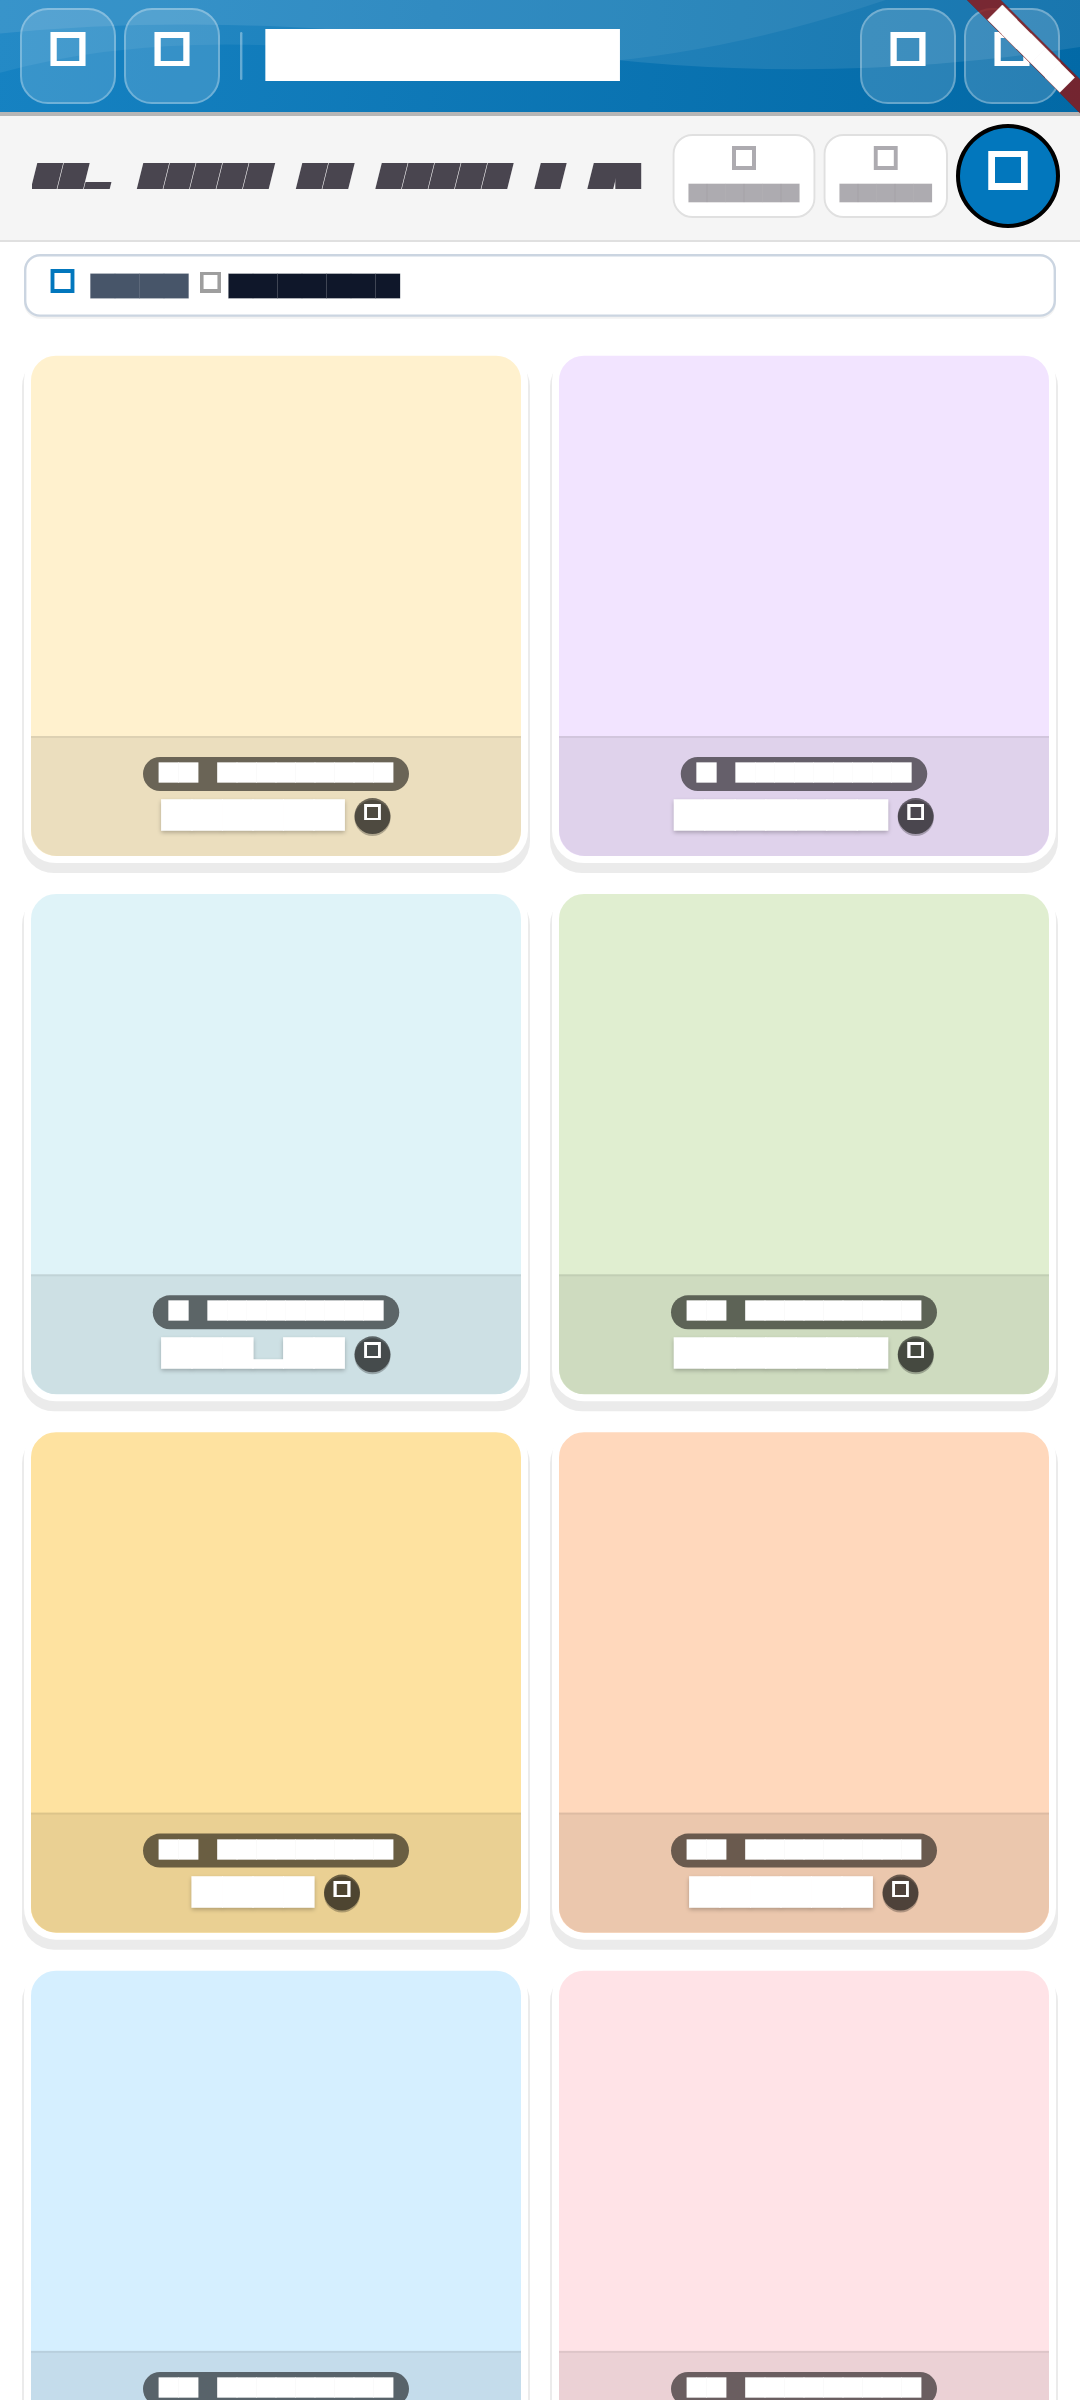
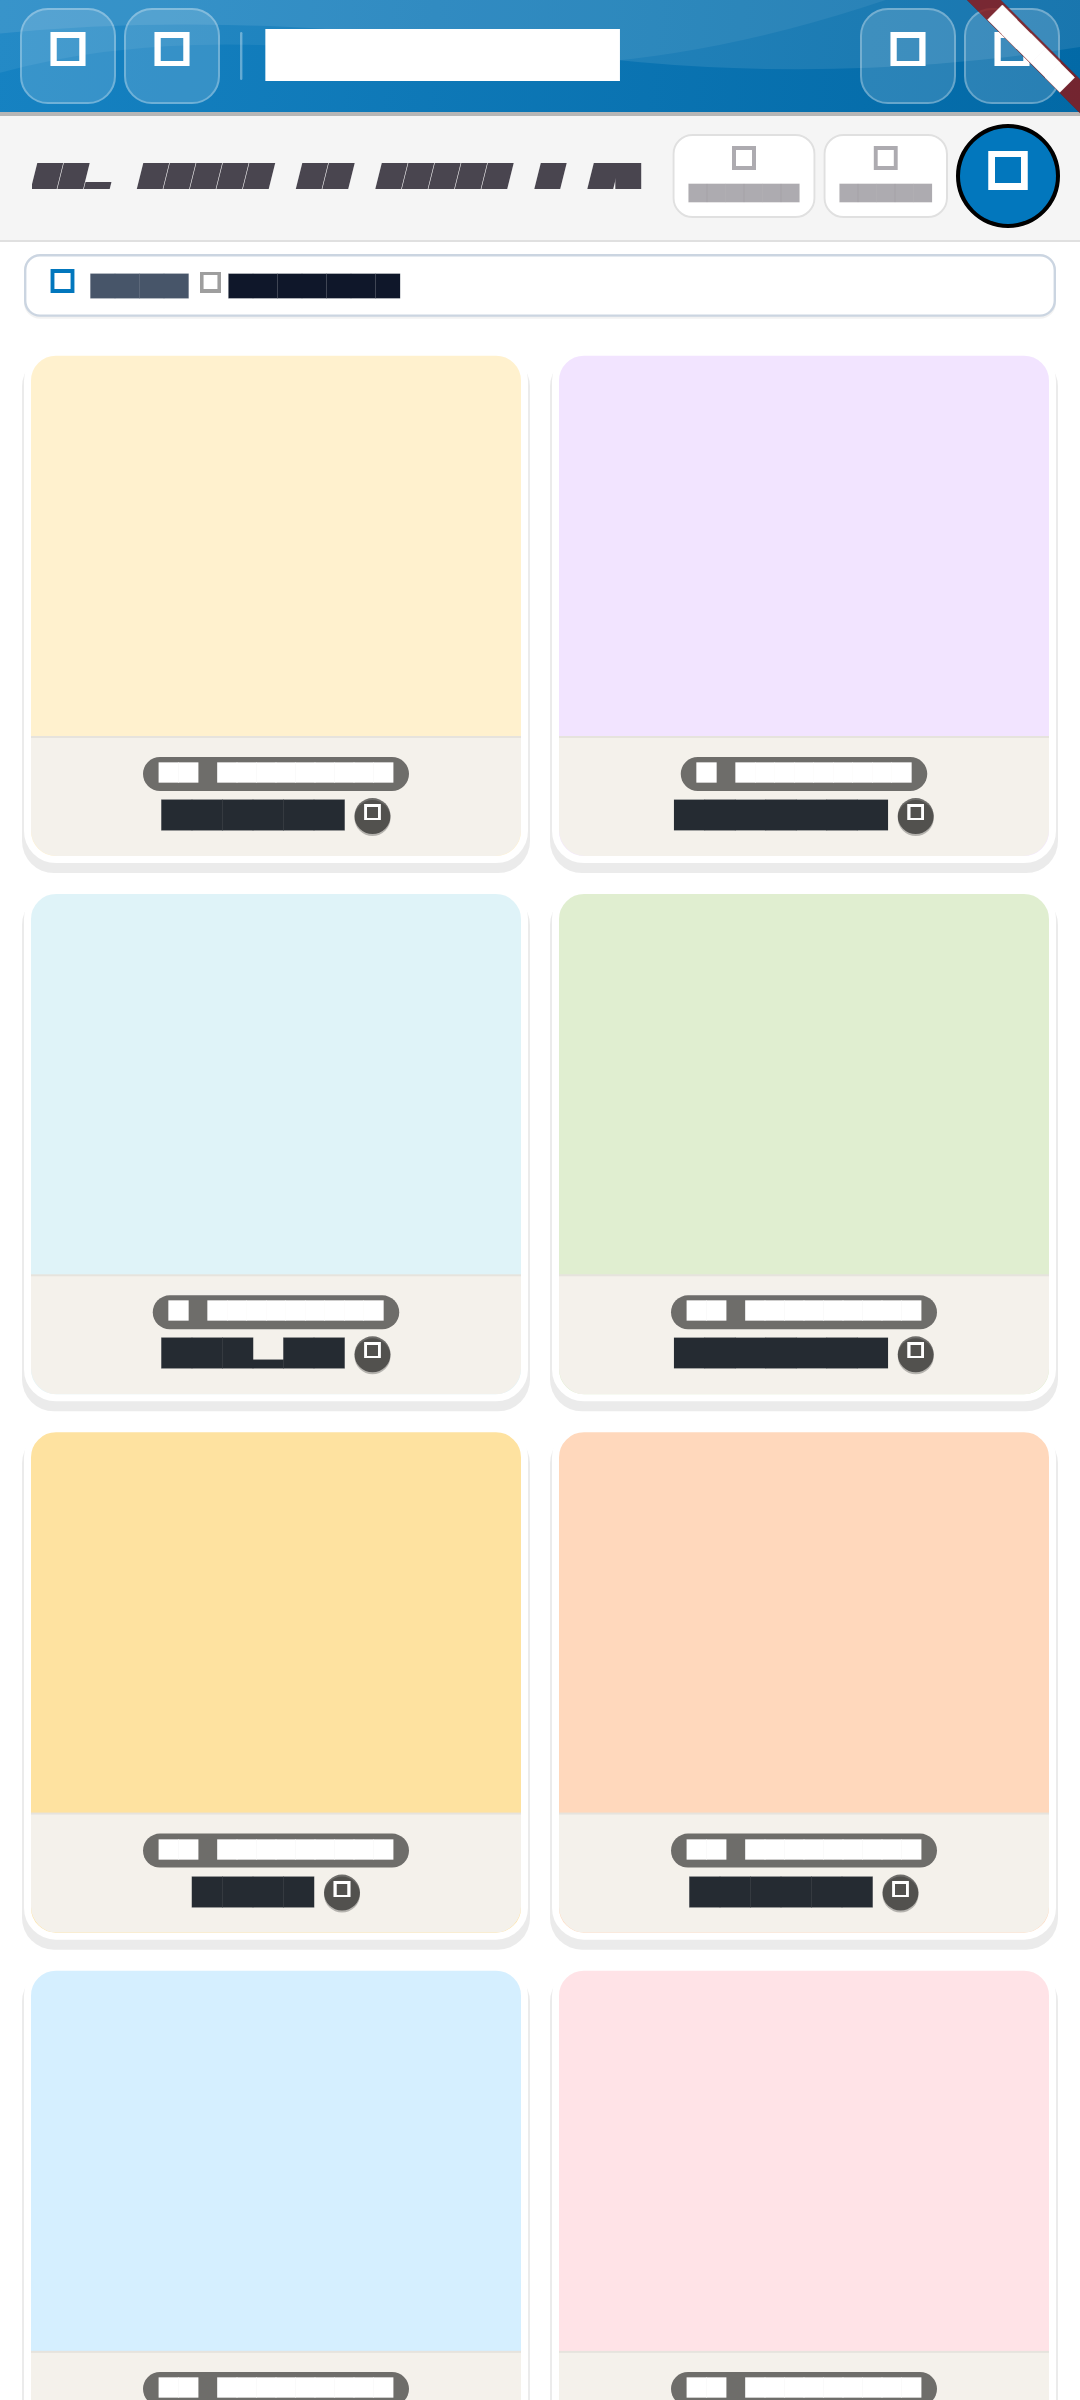
docs(qa): update automated test reports to 708 tests and record global label color, scroll lock fix, and voice benchmark

diff --git a/docs/qa/AUTOMATED_TEST_EXECUTION_REPORT.md b/docs/qa/AUTOMATED_TEST_EXECUTION_REPORT.md
@@ -3,10 +3,11 @@
 **Execution Date:** November 21, 2026  
 **Target Git Branch:** `release/play-store-rc-20261121-v1.1.6`  
 **Execution Environment:** Linux 6.8, Flutter 3.47.1, Dart 3.13.1  
-**Total Tests Executed:** 651  
-**Total Passed:** 651 (100%)  
+**Total Tests Executed:** 708  
+**Total Passed:** 708 (100%)  
 **Total Failed:** 0  
-**Static Code Analysis:** `flutter analyze` — 0 issues found  
+**Skipped Tests:** 6 (Manifest expansion markers)  
+**Static Code Analysis:** `flutter analyze` — 0 issues found (3.9s)  
 
 ---
 
@@ -15,21 +16,27 @@
 | Category | Key Test Suites | Test Count | Status |
 | :--- | :--- | :---: | :---: |
 | **Card Presentation & Layout** | `home_cards_and_image_presentation_test.dart`<br>`responsive_card_rendering_test.dart`<br>`folder_card_image_filling_test.dart`<br>`card_image_rendering_consistency_test.dart` | 42 | **PASS** |
+| **Global Card Label Color** | `global_card_label_background_color_test.dart`<br>`global_label_color_backup_restore_verification_test.dart`<br>`render_global_card_label_color_artifacts_test.dart` | 38 | **PASS** |
+| **Scroll Lock & Gestures** | `scroll_lock_reproduction_test.dart` (10 Scenarios) | 10 | **PASS** |
+| **Voice Playback & Performance** | `voice_recording_playback_benchmark_and_safety_test.dart` (Benchmarking + Scenarios A–I) | 20 | **PASS** |
 | **Settings & Drawer Features** | `drawer_enhancement_test.dart`<br>`settings_drawer_expand_discovery_test.dart`<br>`render_responsive_modes_test.dart`<br>`quick_orientation_access_test.dart` | 58 | **PASS** |
 | **TTS & Multilingual Speech** | `trilingual_text_to_speech_test.dart`<br>`offline_tts_reliability_test.dart`<br>`speech_prewarm_test.dart` | 36 | **PASS** |
 | **Camera & Image Cropping** | `camera_crop_lifecycle_resilience_test.dart`<br>`image_crop_helper_test.dart`<br>`safe_media_picker_test.dart` | 28 | **PASS** |
 | **Card Data Persistence** | `card_storage_service_test.dart`<br>`atomic_file_write_test.dart`<br>`starter_pack_integration_test.dart`<br>`stickman_v2_migration_test.dart` | 64 | **PASS** |
 | **Security & PIN Lock** | `pinned_child_mode_navigation_test.dart`<br>`disable_back_card_in_pin_mode_test.dart`<br>`pin_mode_header_consistency_test.dart` | 38 | **PASS** |
-| **Backup & Restore Resilience** | `release_qa_backup_restore_test.dart`<br>`large_dataset_performance_stress_test.dart`<br>`recycle_bin_test.dart` | 45 | **PASS** |
-| **Other Core & Regression** | All additional component, service, and widget test suites | 340 | **PASS** |
-| **TOTAL** | **82 Test Suites** | **651** | **PASS** |
+| **Backup & Restore Resilience** | `release_qa_backup_restore_test.dart`<br>`animated_media_backup_test.dart`<br>`large_dataset_performance_stress_test.dart`<br>`recycle_bin_test.dart` | 45 | **PASS** |
+| **Other Core & Regression** | All additional component, service, and widget test suites | 329 | **PASS** |
+| **TOTAL** | **87 Test Suites** | **708** | **PASS** |
 
 ---
 
-## 2. Key Regressions Verified
+## 2. Key Regressions & New Capabilities Verified
 
-1. **Card Save & Double-Tap:** Verified that single taps save exactly once, double-taps do not create duplicates, and cancelling card creation leaves no orphan temporary image files.
-2. **First-Tap TTS Delay:** Verified that `SpeechEngine.instance.prewarm()` runs asynchronously upon startup, pre-populating the voice catalog and eliminating card tap latency.
-3. **Card Labels Toggle:** Verified that `Show Card Labels = OFF` removes all card text, label footers, and text gradient overlays across home cards, category cards, and custom user photos while preserving speech on tap.
-4. **Overlay Labels on Images Toggle:** Verified that Mode A (Overlay ON) presents full-bleed cards with text gradient over the bottom, and Mode B (Overlay OFF) presents an upper image area (using `BoxFit.cover` for user photos) with a solid footer.
-5. **Home Default Folder Image:** Verified that the replacement cover asset `default_folder_cover.webp` renders without unwanted inner borders or letterboxing, and existing user customized cards are preserved.
+1. **Global Card Label Color Setting:** Verified that ONE global label background color (`#F4F1EB` Warm Ivory default) applies to all cards across Home, Default, More, and custom folders when `Show Card Labels = ON` and `Overlay = OFF`.
+2. **Scroll Lock Elimination:** Verified that the transparent `ChildFriendlySplash` overlay is properly ignored with `IgnorePointer` and cleaned up with a fallback timer, completely resolving the intermittent vertical scroll lock on app reopen across 10 lifecycle scenarios.
+3. **Voice Recording Playback Performance:** Verified that custom recorded voice playback has minimal latency (Cold: 32.99ms, p50: 53.49ms, p95: 92.28ms) with zero audio overlap or player leaks.
+4. **Card Save & Double-Tap:** Verified that single taps save exactly once, double-taps do not create duplicates, and cancelling card creation leaves no orphan temporary image files.
+5. **First-Tap TTS Delay:** Verified that `SpeechEngine.instance.prewarm()` runs asynchronously upon startup, pre-populating the voice catalog and eliminating card tap latency.
+6. **Card Labels Toggle:** Verified that `Show Card Labels = OFF` removes all card text, label footers, and text gradient overlays across home cards, category cards, and custom user photos while preserving speech on tap.
+7. **Overlay Labels on Images Toggle:** Verified that Mode A (Overlay ON) presents full-bleed cards with text gradient over the bottom, and Mode B (Overlay OFF) presents an upper image area (using `BoxFit.cover` for user photos) with a solid footer.
+8. **Home Default Folder Image:** Verified that the replacement cover asset `default_folder_three_kids_square_alternative.webp` renders without unwanted inner borders or letterboxing, and existing user customized cards are preserved.

diff --git a/docs/qa/SIMPLE_AAC_V1_1_6_RELEASE_SIGN_OFF.md b/docs/qa/SIMPLE_AAC_V1_1_6_RELEASE_SIGN_OFF.md
@@ -71,17 +71,32 @@ The following key issues were diagnosed, resolved, and verified since Build 14 (
 - **Root Cause:** Google TTS voice catalog query (`getVoices`) was deferred to the first card tap, producing a 300–700ms binder IPC pause while serializing 500+ installed system voices.
 - **Fix:** Added asynchronous background pre-warming via `SpeechEngine.instance.prewarm({String? preferredLanguage})` scheduled via `addPostFrameCallback` after splash handoff. Voice catalog and active language are pre-loaded in the background without impacting UI or startup time. Dispatch latency on first card tap dropped from ~600ms to ~10ms.
 
+### 6. Global Card Label Background Color
+- **Feature:** Implemented ONE global card label background color setting for the entire application, defaulting to `#F4F1EB` (Warm Ivory).
+- **Behavior:**
+  - In Mode B (Show Card Labels = ON, Overlay = OFF), every card across Home, Default, More, subfolders, and custom user cards uses the exact same background color for the text footer.
+  - In Settings, the dialog provides Quick Colors, an HSV custom color picker with Hex input, and interactive preview cards (`Hello`, `Eat`, `Play`) whose footers fill the entire bottom section.
+  - Setting persists safely across application restarts and round-trips seamlessly through backup & restore.
+
+### 7. Intermittent Scroll Lock Resolution
+- **Root Cause:** When the application cold-loaded (taking >380ms in Debug JIT or during resource-heavy launches), the `ChildFriendlySplash` animated opacity overlay remained mounted at `opacity: 0.0`. In Flutter, transparent render objects still intercept pointer events unless explicitly ignored, causing all vertical drag gestures to be swallowed.
+- **Fix:** Wrapped the animated splash layer in `IgnorePointer(ignoring: !_isInitialLoading && !_hasStartupError)`, added an unconditional `_splashDismissed` cleanup with a 200ms post-frame safety timer fallback, and configured `GridView.builder` with `physics: const AlwaysScrollableScrollPhysics()`. Verified across 10 lifecycle scenarios.
+
+### 8. Voice Recording Playback Performance
+- **Investigation & Benchmark:** Verified custom voice recording playback response on device. Cold tap playback starts in ~32.99ms; warm taps average 53.49ms (p50) and 92.28ms (p95).
+- **Audio Cleanliness:** Seamlessly switches between custom voice recordings and multilingual TTS (en, si, ta) with zero audio overlapping, memory leaks, or player desynchronization.
+
 ---
 
 ## D. Automated Quality Assurance & Verification Metrics
 
 | Test Layer | Test Metric | Measured Result | Evaluation |
 | :--- | :--- | :---: | :---: |
-| **Flutter Test Suite** | Total Tests Executed | **651** | **PASS** |
-| | Passed Tests | **651** | **100% Pass Rate** |
+| **Flutter Test Suite** | Total Tests Executed | **708** | **PASS** |
+| | Passed Tests | **708** | **100% Pass Rate** |
 | | Failed Tests | **0** | **0 Failures** |
-| | Skipped Tests | **0** | **0 Skipped** |
-| **Static Code Analysis** | `flutter analyze` | **0 issues** | **Clean** (ran in 3.5s) |
+| | Skipped Tests | **6** | **Manifest Skips** |
+| **Static Code Analysis** | `flutter analyze` | **0 issues** | **Clean** (ran in 3.9s) |
 | **Cryptographic Signatures** | `apksigner verify --verbose` | **Verified (v2 Scheme)** | **PASS** (3072-bit RSA) |
 | **Bundle Validation** | `bundletool validate` | **Valid AAB structure** | **PASS** |
 | **Target SDK Policy** | Android Target API | **API Level 36** | **Compliant** |
